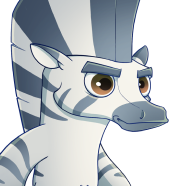
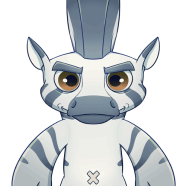
fix(feedback): resolve all feedbacks

diff --git a/src/home/config/home-animals.config.ts b/src/home/config/home-animals.config.ts
@@ -30,4 +30,34 @@ export const ANIMAL_BLOB: BlobConfig[] = [
     viewBox: '0 0 426 417',
     fill: '#61117D',
   },
+  {
+    d: 'M231.867 0.0948135C268.338 0.908156 302.682 11.6091 336.383 25.5856C374.044 41.2048 420.277 50.7868 440.086 86.4478C459.901 122.12 445.262 166.792 437.024 206.764C429.952 241.078 412.558 270.729 395.768 301.473C378.593 332.921 366.507 368.782 337.252 389.451C307.058 410.784 268.289 410.982 231.867 417.273C188.651 424.738 144.62 444.186 103.158 429.885C59.8987 414.964 18.2766 382.008 3.73666 338.587C-10.7042 295.463 20.8397 251.605 28.4431 206.764C34.6492 170.164 27.395 131.435 44.4517 98.4683C61.8445 64.8524 91.1316 38.4452 124.628 20.8631C157.431 3.64497 194.836 -0.731041 231.867 0.0948135Z',
+    viewBox: '0 0 450 435',
+    fill: '#BC4725',
+  },
+  {
+    d: 'M189.382 13.6115C229.523 3.66363 277.332 -10.8202 311.332 12.7233C345.784 36.5792 338.99 89.5985 355.028 128.313C368.68 161.269 392.287 188.884 398.833 223.95C406.226 263.553 409.139 304.95 395.046 342.692C379.82 383.465 354.876 423.588 316.57 444.249C278.506 464.78 231.771 462.193 189.382 453.619C151.206 445.897 120.175 421.246 88.7934 398.177C60.2766 377.214 29.5755 356.953 14.3918 324.982C-0.356272 293.929 6.95677 258.316 6.04875 223.95C5.1154 188.626 -8.76874 150.349 8.97005 119.788C26.7067 89.2306 67.5102 83.5215 97.9601 65.601C128.697 47.5118 154.765 22.1903 189.382 13.6115Z',
+    viewBox: '0 0 405 460',
+    fill: '#E88E13',
+  },
+  {
+    d: 'M222.85 0.000278679C262.818 0.138609 283.048 49.7617 316.849 71.0857C348.941 91.331 399.568 88.1339 416.428 122.121C433.504 156.544 395.643 195.478 397.591 233.853C399.694 275.288 438.942 312.279 428.115 352.33C417.236 392.573 379.944 422.948 341.875 439.954C305.002 456.425 262.524 451.576 222.85 444.024C187.71 437.335 160.458 412.795 127.401 399.13C88.4396 383.024 34.9332 390.794 10.681 356.316C-13.2138 322.345 10.3294 275.373 11.1452 233.853C11.9432 193.237 -8.25501 147.138 15.4393 114.136C39.4042 80.7575 92.4705 90.2464 128.475 70.4337C163.462 51.1804 182.913 -0.137945 222.85 0.000278679Z',
+    viewBox: '0 0 430 451',
+    fill: '#447655',
+  },
+  {
+    d: 'M253.956 0.0660057C299.283 -2.20859 323.655 54.9043 362.326 78.6871C399.646 101.639 455.447 99.5063 477.369 137.468C499.289 175.427 482.336 224.291 470.838 266.598C461.184 302.122 433.777 328.06 416.71 360.669C398.76 394.967 394.179 435.569 367.654 463.749C336.633 496.707 298.905 538.655 253.956 533.58C207.796 528.368 193.887 463.741 154.159 439.644C115.684 416.306 57.8816 431.033 28.5692 396.87C-0.624973 362.845 -5.8404 309.944 5.68378 266.598C16.7132 225.114 61.3401 204.159 88.6126 171.032C110.87 143.996 127.339 114.428 151.681 89.2575C183.676 56.1753 208.017 2.37124 253.956 0.0660057Z',
+    viewBox: '0 0 488 534',
+    fill: '#DBA768',
+  },
+  {
+    d: 'M235.765 41.6071C276.452 46.8824 319.391 24.238 356.751 41.1914C394.879 58.4927 420.398 95.9293 438.583 133.641C456.059 169.884 455.164 210.577 457.79 250.728C460.586 293.473 478.871 341.774 454.502 377.004C429.929 412.53 373.55 403.004 336.779 425.674C298.449 449.305 280.129 504.141 235.765 511.858C191.581 519.544 151.282 486.725 112.193 464.741C72.7335 442.549 24.2662 424.698 6.64368 382.999C-10.931 341.414 10.6847 294.497 21.7481 250.728C30.6941 215.334 54.4507 187.093 64.9956 152.142C79.4902 104.101 53.07 34.5491 95.1984 7.28034C136.39 -19.3819 187.104 35.2981 235.765 41.6071Z',
+    viewBox: '0 0 467 513',
+    fill: '#946B62',
+  },
+  {
+    d: 'M259.191 0.782047C304.646 -1.99539 353.075 1.70115 390.882 27.0759C428.01 51.9954 447.48 95.5428 462.893 137.503C476.707 175.106 475.255 214.993 474.624 255.045C474.003 294.53 477.664 335.547 459.228 370.473C440.526 405.901 407.922 432.643 371.76 449.913C336.966 466.529 297.654 468.758 259.191 466.005C222.547 463.382 189.945 447.371 155.562 434.438C114.762 419.091 59.4639 420.604 37.8668 382.757C16.2455 344.867 58.5721 298.332 53.1937 255.045C46.6906 202.708 -15.5735 156.711 3.67881 107.607C21.9731 60.9463 90.2215 61.9603 136.48 42.6206C177.041 25.6626 215.306 3.46357 259.191 0.782047Z',
+    viewBox: '0 0 475 467',
+    fill: '#FEC926',
+  },
 ]

diff --git a/src/home/components/animals/HomeAnimalAvatars.vue b/src/home/components/animals/HomeAnimalAvatars.vue
@@ -1,3 +1,18 @@
+<script lang="ts">
+import { Navigation } from 'swiper'
+import { Swiper, SwiperSlide } from 'swiper/vue'
+import type { SwiperOptions } from 'swiper/types'
+
+import 'swiper/css'
+
+export default defineComponent({
+  components: {
+    Swiper,
+    SwiperSlide,
+  },
+})
+</script>
+
 <script setup lang="ts">
 const props = defineProps({
   modelValue: {
@@ -8,12 +23,42 @@ const props = defineProps({
 
 const emit = defineEmits(['update:modelValue'])
 const selected = useVModel(props, 'modelValue', emit)
+
+const swiperProps: SwiperOptions = {
+  navigation: {
+    nextEl: '#slide-next',
+    prevEl: '#slide-prev',
+  },
+  breakpoints: {
+    768: {
+      slidesPerView: 5,
+      slidesPerGroup: 5,
+    },
+  },
+  slidesPerView: 3,
+  slidesPerGroup: 3,
+  spaceBetween: 24,
+  loop: true,
+  modules: [Navigation],
+}
 </script>
 
 <template>
-  <ul class="grid grid-cols-[repeat(auto-fit,65px)] md:grid-cols-[repeat(auto-fit,130px)] justify-center gap-4 md:gap-12">
-    <li v-for="idx in 4" :key="idx" @click.prevent="selected = idx" class="">
-      <HomeAnimalAvatar :idx="idx" :selected="idx === selected" />
-    </li>
-  </ul>
+  <div class="max-w-xl w-full mx-auto relative">
+    <swiper v-bind="swiperProps" class="px-4">
+      <swiper-slide v-for="idx in 10" :key="idx" class="py-4" @click.prevent="selected = idx">
+        <HomeAnimalAvatar :idx="idx" :selected="idx === selected" />
+      </swiper-slide>
+    </swiper>
+    <div class="absolute top-1/2 left-0 z-10 flex justify-between transform-gpu -translate-y-1/2">
+      <button id="slide-prev" class="text-3xl text-white opacity-80" @click="prev">
+        <icon-akar-icons:circle-chevron-left-fill />
+      </button>
+    </div>
+    <div class="absolute top-1/2 right-0 z-10 flex justify-between transform-gpu -translate-y-1/2">
+      <button id="slide-next" class="text-3xl text-white opacity-80" @click="next">
+        <icon-akar-icons:circle-chevron-right-fill />
+      </button>
+    </div>
+  </div>
 </template>

diff --git a/src/components.d.ts b/src/components.d.ts
@@ -38,7 +38,8 @@ declare module 'vue' {
     HomeTokenomyChart: typeof import('./home/components/tokenomy/HomeTokenomyChart.vue')['default']
     HomeTokenomyLegends: typeof import('./home/components/tokenomy/HomeTokenomyLegends.vue')['default']
     HomeTokenomySection: typeof import('./home/components/tokenomy/HomeTokenomySection.vue')['default']
-    'IconCarbon:warning': typeof import('~icons/carbon/warning')['default']
+    'IconAkarIcons:circleChevronLeftFill': typeof import('~icons/akar-icons/circle-chevron-left-fill')['default']
+    'IconAkarIcons:circleChevronRightFill': typeof import('~icons/akar-icons/circle-chevron-right-fill')['default']
     'IconFaBrands:discord': typeof import('~icons/fa-brands/discord')['default']
     'IconFaBrands:facebook': typeof import('~icons/fa-brands/facebook')['default']
     'IconFaBrands:medium': typeof import('~icons/fa-brands/medium')['default']

diff --git a/src/home/components/partner/HomePartnerSection.vue b/src/home/components/partner/HomePartnerSection.vue
@@ -16,12 +16,12 @@ const { t } = useI18n()
           </h3>
           <img class="mx-auto mb-8 max-w-64" src="/img/home/partner/bsc.png" alt="Binance Smart Chain">
         </div>
-        <div class="px-8">
+        <!-- <div class="px-8">
           <h3 class="underline uppercase font-bold">
             {{t('home.partner.audit_by')}}
           </h3>
           <img class="mx-auto max-w-64" src="/img/home/partner/certik.png" alt="Certik">
-        </div>
+        </div> -->
       </div>
     </div>
   </section>

diff --git a/src/home/components/animals/HomeAnimalContent.vue b/src/home/components/animals/HomeAnimalContent.vue
@@ -59,7 +59,7 @@ export default defineComponent({
               >
                 <img
                   class="h-8/10"
-                  :src="`/img/characters/${ANIMAL_MAP[selected]}.png`"
+                  :src="`/img/characters/${ANIMAL_MAP[selected]}-side.png`"
                   alt="The Animal"
                 />
               </KinesisElement>

diff --git a/src/home/config/home-feature.config.ts b/src/home/config/home-feature.config.ts
@@ -1,2 +1,2 @@
 // Using array for cheaper lookups
-export const FEATURE_ICON_MAP = ['', '/img/home/features/race.png', '/img/home/features/box.png', '/img/home/features/reward.png', '/img/home/features/market.png']
+export const FEATURE_ICON_MAP = ['', '/img/home/features/race.png', '/img/home/features/box.png', '/img/home/features/market.png']

diff --git a/src/core/components/layouts/home/HomeFooterItem.vue b/src/core/components/layouts/home/HomeFooterItem.vue
@@ -4,7 +4,7 @@ const props = defineProps<{ to: string; disabled?: boolean }>()
 
 <template>
   <li>
-    <Link class="flex items-center" v-bind="props" v-smooth-scroll>
+    <Link class="flex items-center lg:justify-start justify-center" v-bind="props" v-smooth-scroll>
       <slot />
     </Link>
   </li>

diff --git a/src/home/components/features/HomeFeatureList.vue b/src/home/components/features/HomeFeatureList.vue
@@ -1,5 +1,5 @@
 <template>
-  <ul class="grid md:grid-cols-2 lg:grid-cols-4 gap-12">
-    <HomeFeatureItem v-for="idx in 4" :key="idx" :idx="idx" />
+  <ul class="grid md:grid-cols-3 gap-12 justify-center">
+    <HomeFeatureItem v-for="idx in 3" :key="idx" :idx="idx" />
   </ul>
 </template>

diff --git a/src/home/components/animals/HomeAnimalSection.vue b/src/home/components/animals/HomeAnimalSection.vue
@@ -4,7 +4,7 @@ const selectedAnimalIdx = ref(1)
 </script>
 
 <template>
-  <section id="animal">
+  <section id="animal" class="w-screen">
     <div class="container py-8">
       <HomeSectionHeading class="text-center my-8">
         {{t('home.animals.title')}}

diff --git a/src/home/config/home-character.config.ts b/src/home/config/home-character.config.ts
@@ -1,1 +1,1 @@
-export const ANIMAL_MAP = ['', 'lion', 'zebra', 'rhino', 'wolf']
+export const ANIMAL_MAP = ['', 'lion', 'zebra', 'rhino', 'wolf', 'tiger', 'cheetah', 'boar', 'bear', 'elephant', 'giraffe']
